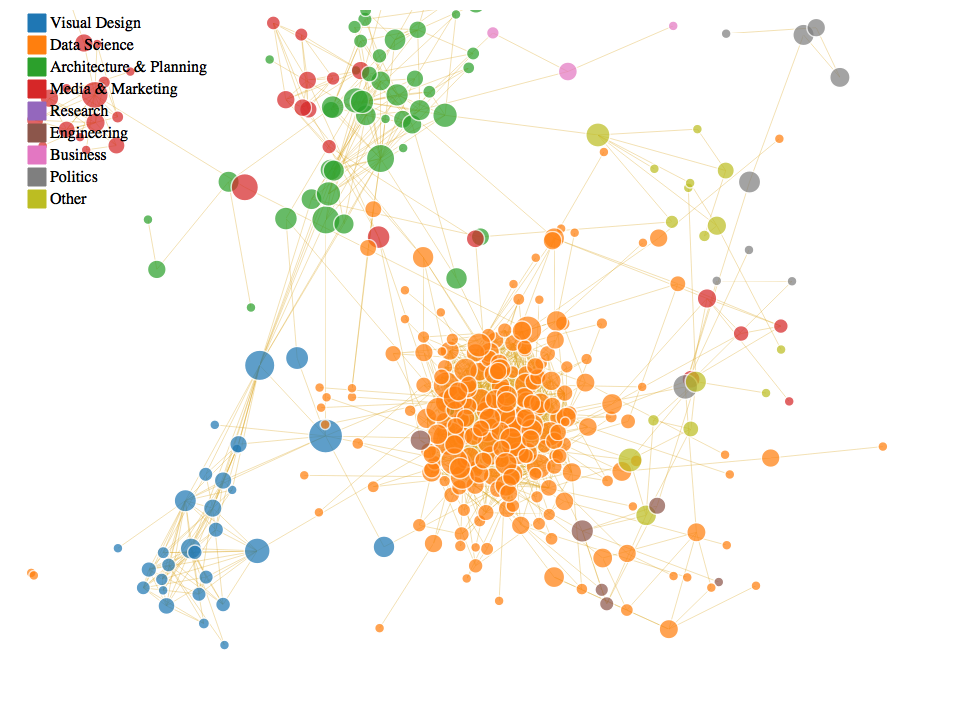
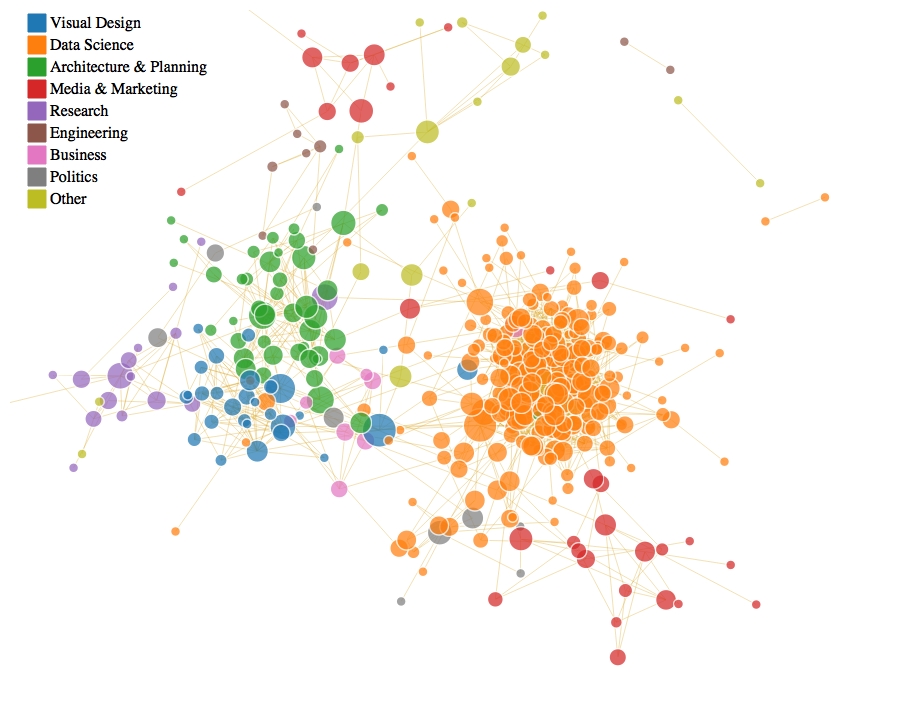
update

diff --git a/README.md b/README.md
@@ -3,95 +3,83 @@
 
 This repository is a tutorial demonstrating how to use your LinkedIn data to visualize your professional-social network in R and D3.JS.
 
-``` r
+1. Install and Load Libraries
+=============================
 
-#####
-# Install and Load Libraries
-#####
+``` r
 
 library("networkD3")
 library("rjson")
 library("jsonlite")
-#> 
-#> Attaching package: 'jsonlite'
-#> The following objects are masked from 'package:rjson':
-#> 
-#>     fromJSON, toJSON
 library("igraph") 
-#> 
-#> Attaching package: 'igraph'
-#> The following objects are masked from 'package:stats':
-#> 
-#>     decompose, spectrum
-#> The following object is masked from 'package:base':
-#> 
-#>     union
+```
 
+2. Read in your LinkedIn Data
+=============================
+
+``` r
 l <- fromJSON("https://raw.githubusercontent.com/michaeljules/social-network-viz/master/data/data.js",flatten=TRUE)
+```
 
-#######
-# Translate Data to Network Object
-#######
+3. Translate Data to Network Object
+===================================
 
+Adjacency Matrix
+----------------
+
+``` r
 networkData <- l$reducedMatrix
 rownames(networkData) <- paste0(l$publicConnections$firstName[1:499]," ",l$publicConnections$lastName[1:499])
 colnames(networkData) <- rownames(networkData) 
 
 g <- graph.adjacency(networkData,mode="undirected")
-class(g)
-#> [1] "igraph"
+```
 
-# Add attributes to the network, vertices, or edges:
+4. Add Node Attributes to the Network:
+======================================
+
+``` r
 V(g)$industry <- l$publicConnections$industry[1:499]
 V(g)$location <- l$publicConnections$location.name[1:499]
 V(g)$names <- paste0(l$publicConnections$firstName[1:499]," ",l$publicConnections$lastName[1:499])
 V(g)$click <- l$publicConnections$pictureUrl[1:499]
 V(g)$country <- l$publicConnections$location.country.code[1:499]
 V(g)$headline <- l$publicConnections$headline[1:499]
+```
 
-#######
-# Create Node Dataset
-#######
+5. Calculate Network Centrality Scores For Each Node
+====================================================
 
-nodes <- as.data.frame(cbind(paste0(l$publicConnections$firstName[1:499]," ",l$publicConnections$lastName[1:499]),l$publicConnections$industry[1:499],l$publicConnections$location.name[1:499],l$publicConnections$pictureUrl[1:499],l$publicConnections$location.country.code[1:499]))
-colnames(nodes) <- c("name","industry","location","click","country")
-
-#######
-# Create Links Dataset
-#######
-links <- as.data.frame(get.edgelist(g))
-colnames(links) <- c("source","target")
-
-#######
-# Calculate Network Centrality
-#######
-
+``` r
 b <- betweenness(g, v=V(g), directed = FALSE, weights = NULL,
                  nobigint = TRUE, normalized = FALSE)
+# Take the Square Root of the betweenness measure so nodes are not too large
 V(g)$betweenness <- sqrt(b)
+```
 
-########
-# Remove Isolates
-#######
+6. Remove Isolates From Network
+===============================
 
+``` r
 #identify isolated nodes
 bad.vs <- V(g)[degree(g) == 0] 
 
 # remove isolated nodes
 g <- delete.vertices(g, bad.vs)
+```
 
-#######
-# Calculate Neighborhood Clusters
-######
+7. Identify Network Communities
+===============================
 
-# The neighborhood of a given order o of a vertex v includes all vertices which are closer to v than the order. Ie. order 0 is always v itself, order 1 is v plus its immediate neighbors, order 2 is order 1 plus the immediate neighbors of the vertices in order 1, etc.
-
+``` r
 c3 <- cluster_label_prop(g)
+# Note: cluster_label_prop is a fast, nearly linear time algorithm for detecting community structure in networks. In works by labeling the vertices with unique labels and then updating the labels by majority voting in the neighborhood of the vertex.
+
+# Assign community membership to network nodes
 V(g)$c3 <- c3$membership
 
-# Label Group Memberships
+# Label Group Memberships -- These are self-identified network communites based on the function above.
 c3$group <- c3$membership
-#c3$group <- "Misc"
 c3$group[c3$membership==1] <- "Visual Design"
 c3$group[c3$membership==2] <- "Data Science"
 c3$group[c3$membership==3] <- "Architecture & Planning"
@@ -113,14 +101,22 @@ c3$group[c3$membership==18] <- "Other"
 c3$group[c3$membership==19] <- "Engineering"
 c3$group[c3$membership==20] <- "Politics"
 c3$group[c3$membership==21] <- "Media & Marketing"
+c3$group[c3$membership==22] <- "Other"
+c3$group[c3$membership==23] <- "Other"
 
+# Assign Community Membership to Network Nodes
 V(g)$c3 <- c3$group
+```
 
+8. Translate Network Graph to D3
+================================
+
+``` r
 library(networkD3)
-# Translate to iGraph to D3
+
 g_d3 <- igraph_to_networkD3(g)
 
-## Add Attributes
+## Append Node Attributes
 g_d3$nodes$location <- V(g)$location
 g_d3$nodes$industry <- V(g)$industry
 g_d3$nodes$click    <- V(g)$click
@@ -134,13 +130,13 @@ g_d3$nodes$c3 <- V(g)$c3
 
 net <- forceNetwork(Links=g_d3$links,
              Nodes=g_d3$nodes,
-             width=960,
+             width=900,
              height=700,
              NodeID = 'headline', 
              Group  = 'c3',
              radiusCalculation = JS("Math.sqrt(d.nodesize)+5"),
              Nodesize = 'betweenness',
-             charge = -60,
+             charge = -40,
              linkWidth = .4,
              colourScale = JS("d3.scale.category10()"),
              linkColour = "goldenrod",
@@ -153,7 +149,7 @@ net <- forceNetwork(Links=g_d3$links,
              fontSize = 14) 
 ```
 
-Example
--------
+9. Example: My LinkedIn Network
+===============================
 
 ![](README-network-1.png)
